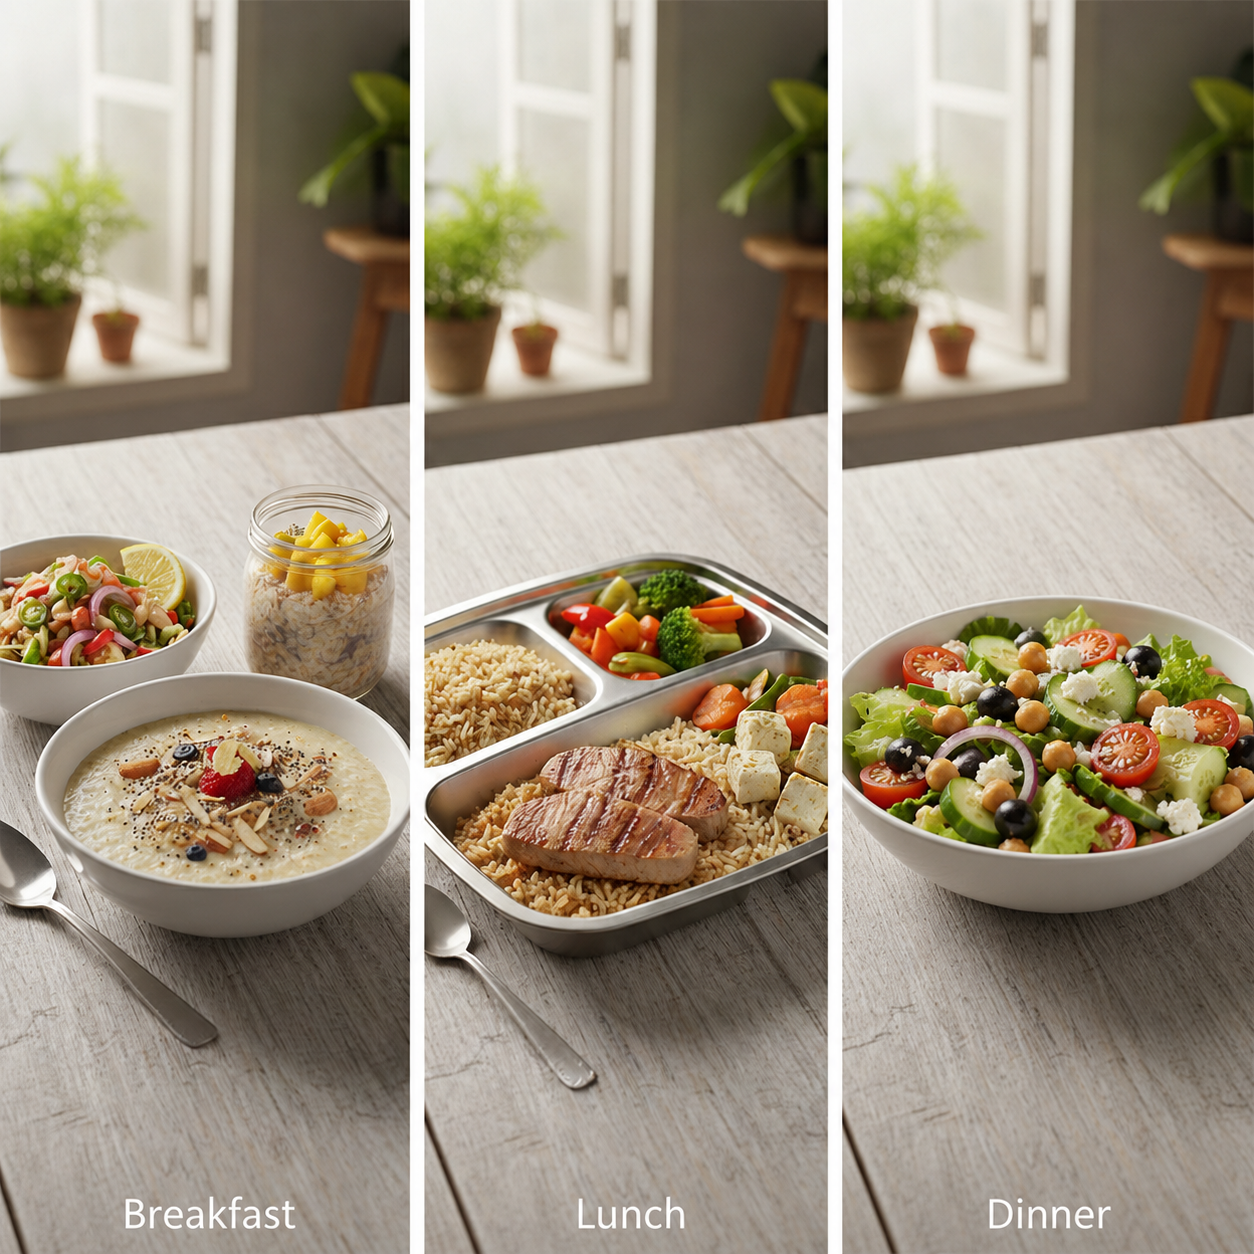
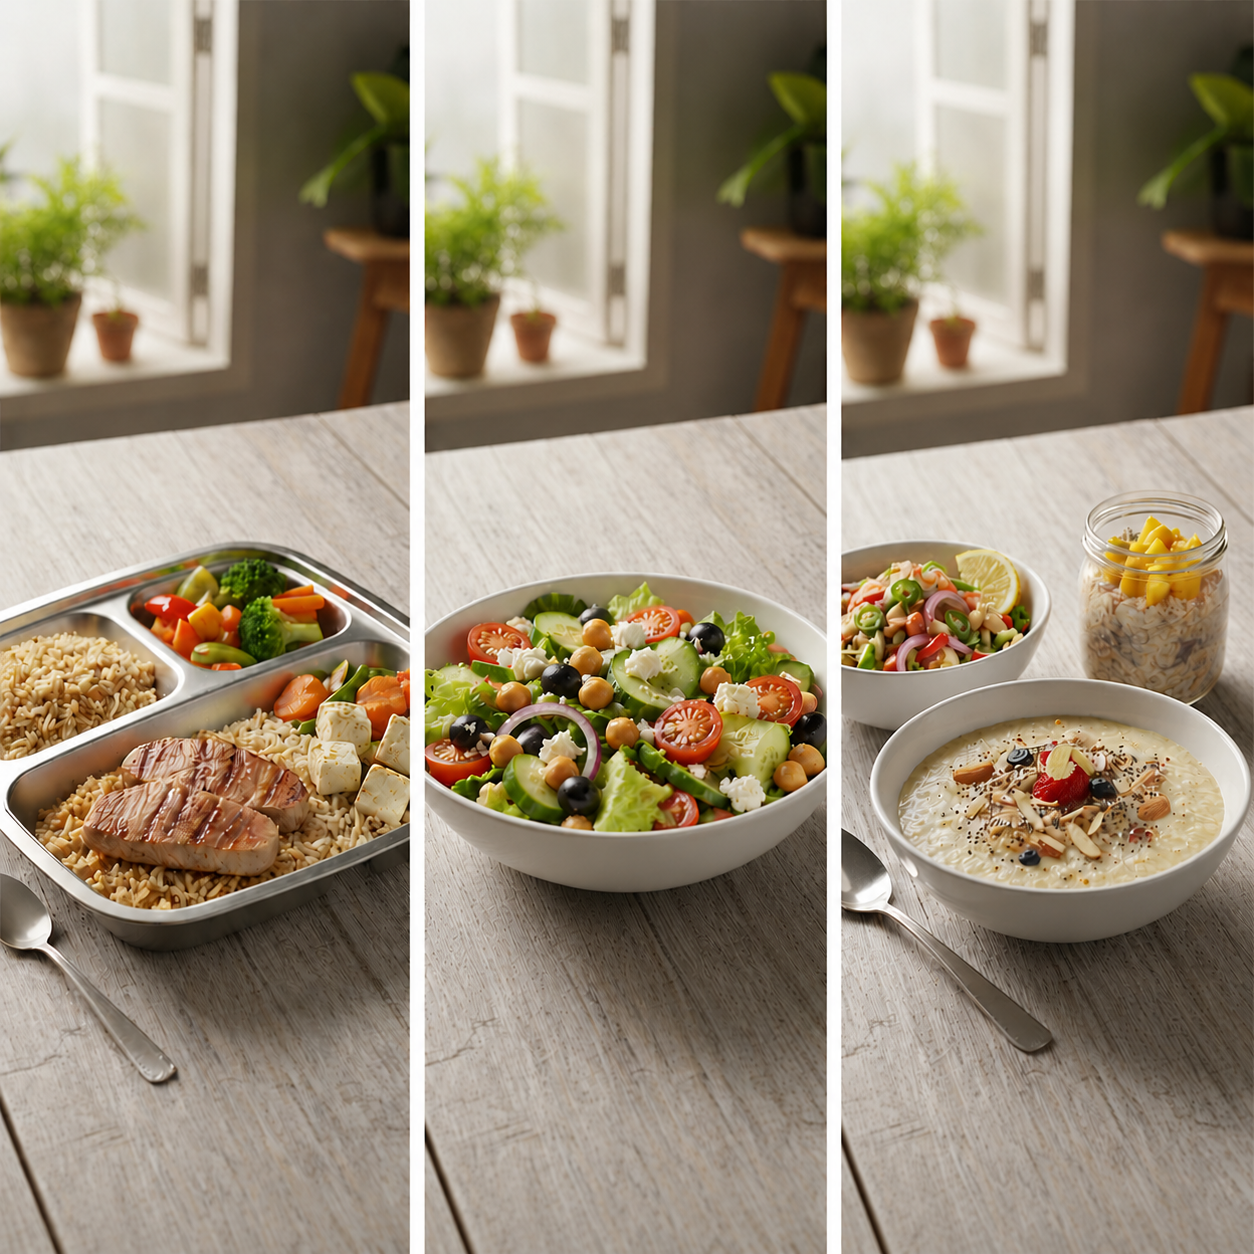
last change

diff --git a/src/data/menuData.ts b/src/data/menuData.ts
@@ -136,7 +136,7 @@ export const categories: CategoryInfo[] = [
   {
     id: "rice-mix",
     name: "Rice Mix",
-    icon: "https://i1-e.pinimg.com/1200x/f9/c1/46/f9c1468a1748954111f8e81bb7decf96.jpg",
+    icon: "https://i1-e.pinimg.com/1200x/f9/c1/46/f9c1468a1748954111f8e81bb7decf96.jpgf",
     description: "Ready-to-cook rice mixes",
   },
   {
@@ -564,7 +564,7 @@ export const foodItems: FoodItem[] = [
 {
   id: "diet-combo-2-subscription",
   name: "Diet Combo 2 (Lunch + Fruit Bowl + Dinner )",
-  description: "Complete diet plan: Lunch, Dinner and Fruit Bowl",
+  description: "Complete diet plan: Lunch, Fruit Bowl and Dinner",
   ingredients: ["Breakfast", "Lunch", "Dinner", "Juice"],
   price: { full: 12500 },
   category: "diet-combo-2-subscription",
